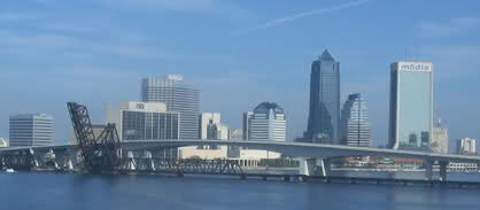
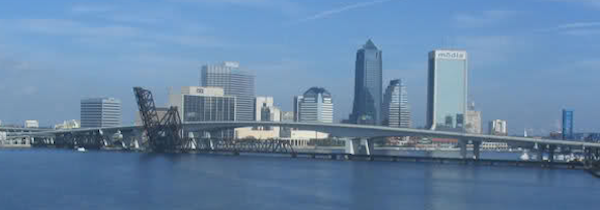
Improved mobile appearance.  Resized mobile background images

diff --git a/sites/default/themes/msdc/css/global.css b/sites/default/themes/msdc/css/global.css
@@ -192,7 +192,7 @@ a.content-link {
     background-image: url('../images/region-branding-mobile-bg.png');
     background-repeat: no-repeat;
     background-position: top left;
-    background-size: 480px 210px;
+    background-size: 600px 210px;
     position: relative;
     top: 0;
     left: 0;
@@ -358,11 +358,10 @@ li.rss {
     display: inline;
 }
 
-/* .main-menu a */
 #block-system-main-menu .menu a {
-    -moz-box-shadow:inset 0px 1px 0px 0px #dbb0ad;
-    -webkit-box-shadow:inset 0px 1px 0px 0px #dbb0ad;
-    box-shadow:inset 0px 1px 0px 0px #dbb0ad;
+    -moz-box-shadow:inset 0 1px 0 0 #dbb0ad;
+    -webkit-box-shadow:inset 0 1px 0 0 #dbb0ad;
+    box-shadow:inset 0 1px 0 0 #dbb0ad;
     background:-webkit-gradient( linear, left top, left bottom, color-stop(0.05, #694945), color-stop(1, #b36464) );
     background:-moz-linear-gradient( center top, #694945 5%, #b36464 100% );
     filter:progid:DXImageTransform.Microsoft.gradient(startColorstr='#694945', endColorstr='#b36464');
